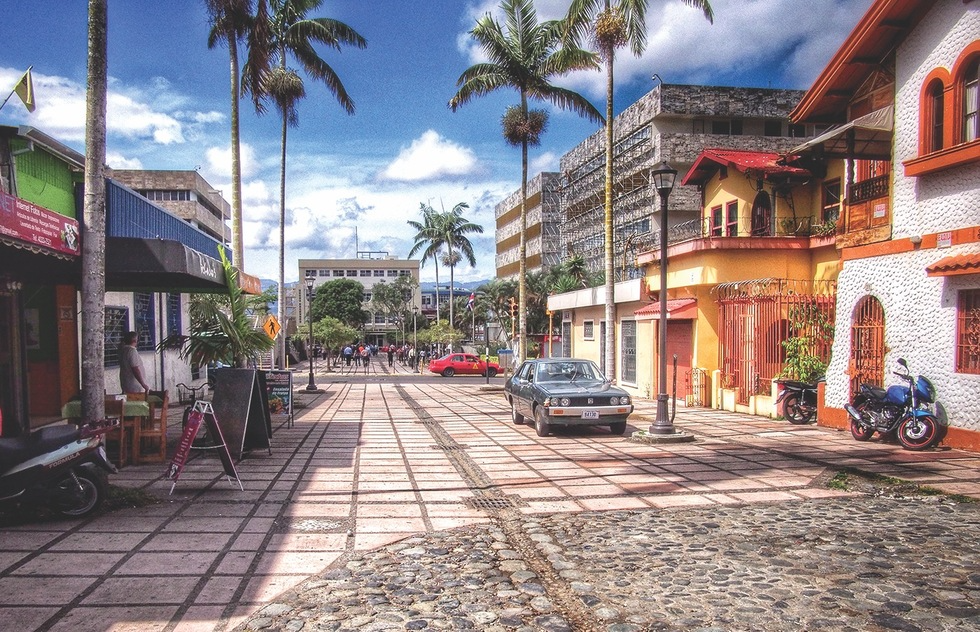
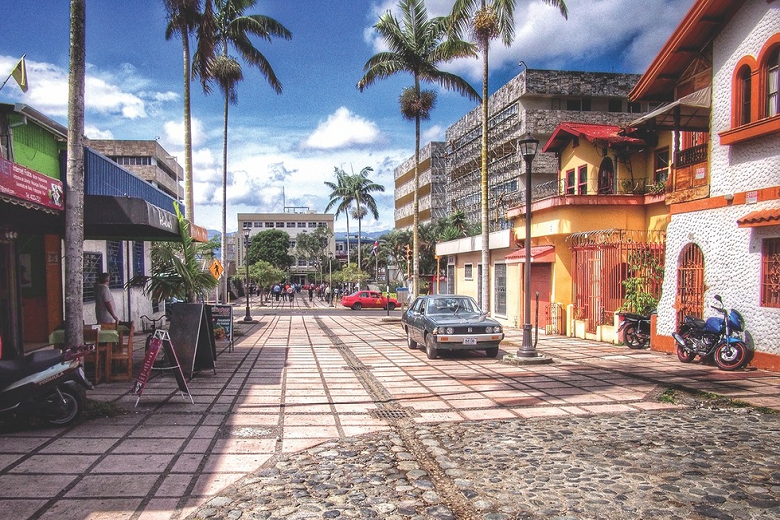
componente detalhes finalizado - imagens redimensionadas - mais informacoes adicionadas

Changed region(s): [[0.5846, 0.0, 0.6154, 0.0615], [0.6154, 0.2154, 0.6462, 0.2462], [0.4923, 0.0615, 0.5231, 0.0923]]

diff --git a/src/app/pais.service.ts b/src/app/pais.service.ts
@@ -18,6 +18,9 @@ export class PaisService {
       fotocard: `${this.baseUrl}/card/lisboa.png`,
       cidade: 'Lisboa',
       custodevida: 'R$5.400 - R$9.900',
+      temperatura: 'Clima temperado com média anual de 17°C',
+      lingua: 'Português',
+      internet: '50 Mbps',
       descricao:
         'Portugal é um destino inspirador. Com sua rica história, cidades pitorescas e belas paisagens, o país oferece um ambiente inspirador para trabalhar e explorar. Lisboa, a capital, combina tradição e modernidade, com bairros históricos, como Alfama, e uma cena tecnológica em crescimento no Parque das Nações. O Porto, conhecido por suas vinícolas e charme urbano, também atrai nômades digitais em busca de uma atmosfera acolhedora.',
     },
@@ -31,8 +34,11 @@ export class PaisService {
       fotocard: `${this.baseUrl}/card/bangkok.png`,
       cidade: 'Bangkok',
       custodevida: 'R$3.000 - R$7.000',
+      temperatura: 'Clima tropical com média anual de 28°C',
+      lingua: 'Tailandês',
+      internet: '25 Mbps',
       descricao:
-        'A Tailândia é um paraíso exótico e vibrante, oferecendo uma fusão única entre praias deslumbrantes, selvas exuberantes e cidades movimentadas. Com uma combinação de infraestrutura moderna e cultura tradicional, é um local atraente para trabalhar remotamente. Bangkok, a capital, é um hub dinâmico com uma cena de coworking em crescimento, enquanto destinos como Chiang Mai e as ilhas tailandesas proporcionam uma mistura perfeita de beleza natural, gastronomia deliciosa e opções de lazer, tornando a Tailândia um refúgio inspirador para nômades digitais em busca de diversidade e aventura.',
+        'A Tailândia é um paraíso exótico e vibrante, oferecendo uma fusão única entre praias deslumbrantes, selvas exuberantes e cidades movimentadas. Com uma combinação de infraestrutura moderna e cultura tradicional, é um local atraente para trabalhar remotamente. Bangkok, a capital, é um hub dinâmico com uma cena de coworking em crescimento, enquanto destinos como Chiang Mai e as ilhas tailandesas proporcionam uma mistura perfeita de beleza natural, gastronomia deliciosa e opções de lazer.',
     },
     {
       id: 2,
@@ -44,8 +50,11 @@ export class PaisService {
       fotocard: `${this.baseUrl}/card/costa-rica.png`,
       cidade: 'San Jose',
       custodevida: 'R$4.500 - R$8.000',
+      temperatura: 'Clima tropical com média anual de 27°C',
+      lingua: 'Espanhol',
+      internet: '10 Mbps',
       descricao:
-        'A Costa Rica é um refúgio tropical fascinante para nômades digitais, oferecendo uma harmoniosa conexão entre natureza exuberante e comodidades modernas. Com suas praias deslumbrantes, florestas tropicais biodiversas e parques nacionais bem preservados, o país proporciona um ambiente inspirador para trabalhar remotamente. Além disso, as cidades como San José oferecem opções de coworking e infraestrutura digital, enquanto a cultura "pura vida" e a variedade de atividades ao ar livre, como surf, trilhas e observação de vida selvagem, enriquecem a experiência de um estilo de vida nômade na Costa Rica.',
+        'A Costa Rica é um refúgio tropical fascinante para nômades digitais, oferecendo uma harmoniosa conexão entre natureza exuberante e comodidades modernas. Com suas praias deslumbrantes, florestas tropicais biodiversas e parques nacionais bem preservados, o país proporciona um ambiente inspirador para trabalhar remotamente. Cidades como San José oferecem variedade de atividades ao ar livre, como surf, trilhas e observação de vida selvagem.',
     },
     {
       id: 3,
@@ -57,8 +66,11 @@ export class PaisService {
       fotocard: `${this.baseUrl}/card/playa-del-carmen.png`,
       cidade: 'Playa del Carmen',
       custodevida: 'R$3.600 - R$6.500',
+      temperatura: 'Clima tropical com média anual de 27°C',
+      lingua: 'Espanhol',
+      internet: '20 Mbps',
       descricao:
-        'O México é um destino vibrante e diversificado para nômades digitais, oferecendo uma fusão rica entre cultura, história e paisagens deslumbrantes. Cidades como Cidade do México e Playa del Carmen oferecem uma mistura emocionante de vida urbana e praias cativantes, com uma crescente cena de coworking e infraestrutura digital. A gastronomia mexicana é renomada, proporcionando uma experiência culinária única. As ruínas antigas, como as de Chichen Itza, e as belas praias da Riviera Maya adicionam um toque de aventura e exploração à vida de nômade digital no México, tornando-o um destino atraente para aqueles que buscam uma mistura equilibrada entre trabalho e lazer.',
+        'O México é um destino vibrante e diversificado para nômades digitais, oferecendo uma fusão rica entre cultura, história e paisagens deslumbrantes. Cidades como Cidade do México e Playa del Carmen oferecem uma mistura emocionante de vida urbana e praias cativantes. A gastronomia mexicana é renomada, proporcionando uma experiência culinária única. As ruínas antigas, como as de Chichen Itza, e as belas praias da Riviera Maya adicionam um toque de aventura e exploração à vida de nômade digital no México.',
     },
     {
       id: 4,
@@ -70,8 +82,11 @@ export class PaisService {
       fotocard: `${this.baseUrl}/card/kuala-lumpur.png`,
       cidade: 'Kuala Lumpur',
       custodevida: 'R$3.000 - R$5.500',
+      temperatura: 'Clima equatorial com média anual de 27°C',
+      lingua: 'Malaio',
+      internet: '20 Mbps',
       descricao:
-        'A Malásia é um destino intrigante, combinando uma mistura fascinante de culturas, paisagens variadas e uma infraestrutura moderna. Kuala Lumpur, a capital, oferece uma atmosfera cosmopolita com arranha-céus impressionantes e uma cena de coworking em crescimento. Além disso, cidades como Penang e Langkawi proporcionam um ambiente mais descontraído, com belas praias e uma vibração cultural única. A rica culinária malasiana é uma atração por si só, refletindo a diversidade étnica do país. Com uma combinação de custo de vida acessível e experiências culturais enriquecedoras, a Malásia oferece um equilíbrio atraente entre trabalho e lazer para nômades digitais em busca de novas experiências.',
+        'A Malásia é um destino intrigante, combinando uma mistura fascinante de culturas, paisagens variadas e uma infraestrutura moderna. Kuala Lumpur, a capital, oferece uma atmosfera cosmopolita com arranha-céus impressionantes e uma cena de coworking em crescimento. Além disso, cidades como Penang e Langkawi proporcionam um ambiente mais descontraído, com belas praias e uma vibração cultural única. A rica culinária malasiana é uma atração por si só, refletindo a diversidade étnica do país.',
     },
     {
       id: 5,
@@ -83,8 +98,11 @@ export class PaisService {
       fotocard: `${this.baseUrl}/card/tallinn.png`,
       cidade: 'Tallinn',
       custodevida: 'R$4.500 - R$7.500',
+      temperatura: 'Clima temperado com média anual de 7°C',
+      lingua: 'Estoniano',
+      internet: '70 Mbps',
       descricao:
-        'A Estônia é um destino encantador, com uma mistura única de inovação digital e beleza natural. A capital, Tallinn, oferece uma combinação de história medieval e infraestrutura moderna, incluindo zonas de internet sem fio gratuito em toda a cidade. O programa de cidadania eletrônica da Estônia permite aos nômades digitais estabelecer uma presença legal e acessar serviços online de forma conveniente. Além disso, a cena de coworking está em crescimento, proporcionando oportunidades de networking. A beleza das paisagens costeiras, florestas exuberantes e ilhas pitorescas complementa a experiência, tornando a Estônia um destino atraente para aqueles que buscam uma mistura de inovação, cultura e natureza.',
+        'A Estônia é um destino encantador, com uma mistura única de inovação digital e beleza natural. A capital, Tallinn, oferece uma combinação de história medieval e infraestrutura moderna, incluindo zonas de Wi-Fi gratuito em toda a cidade. O programa de cidadania eletrônica da Estônia permite aos nômades digitais estabelecer uma presença legal e acessar serviços online de forma conveniente.',
     },
     {
       id: 6,
@@ -96,8 +114,11 @@ export class PaisService {
       fotocard: `${this.baseUrl}/card/dublin.png`,
       cidade: 'Dublin',
       custodevida: 'R$9.900 - R$13.500',
+      temperatura: 'Clima temperado oceânico com média anual de 10°C',
+      lingua: 'Inglês',
+      internet: '75 Mbps',
       descricao:
-        'A Irlanda é um destino cativante para nômades digitais, oferecendo uma combinação única de charme histórico, paisagens deslumbrantes e uma atmosfera acolhedora. Cidades como Dublin, com sua cena tecnológica em crescimento, proporcionam uma infraestrutura moderna para trabalhar remotamente. Além disso, as paisagens irlandesas, que variam de falésias dramáticas a campos verdes exuberantes, oferecem oportunidades para explorar a natureza durante o tempo livre. A cultura rica, a música tradicional e os pubs animados acrescentam um toque especial à experiência de nômade digital na Irlanda, proporcionando um equilíbrio atraente entre trabalho e lazer.',
+        'A Irlanda é um destino cativante para nômades digitais, oferecendo uma combinação única de charme histórico, paisagens deslumbrantes e uma atmosfera acolhedora. Cidades como Dublin, com sua cena tecnológica em crescimento, proporcionam uma infraestrutura moderna para trabalhar remotamente. A cultura rica, a música tradicional e os pubs animados acrescentam um toque especial à experiência de nômade digital na Irlanda, proporcionando um equilíbrio atraente entre trabalho e lazer.',
     },
     {
       id: 7,
@@ -109,8 +130,11 @@ export class PaisService {
       fotocard: `${this.baseUrl}/card/buenos-aires.png`,
       cidade: 'Buenos Aires',
       custodevida: 'R$2.700 - R$5.000',
+      temperatura: 'Clima subtropical com média anual de 18°C',
+      lingua: 'Espanhol',
+      internet: '25 Mbps',
       descricao:
-        'A Argentina é um destino apaixonante para nômades digitais, com uma mistura envolvente de cultura, história e vastidão geográfica. Buenos Aires, a capital, oferece uma atmosfera artística e animada, além de uma crescente cena de coworking e tecnologia. A rica cultura argentina é refletida na dança do tango, na culinária famosa por seus bifes e na paixão pelo futebol. Além disso, as vastas paisagens que vão desde as montanhas da Patagônia até as vinícolas de Mendoza oferecem oportunidades emocionantes para explorar a natureza e a aventura. Com uma abordagem descontraída da vida, a Argentina oferece aos nômades digitais uma experiência única, equilibrando trabalho, cultura e lazer de maneira harmoniosa.',
+        'A Argentina é um destino apaixonante para nômades digitais, com uma mistura envolvente de cultura, história e vastidão geográfica. Buenos Aires, a capital, oferece uma atmosfera artística e animada, além de uma crescente cena de coworking e tecnologia. A rica cultura argentina é refletida na dança do tango, na culinária famosa por seus bifes e na paixão pelo futebol.',
     },
     {
       id: 8,
@@ -122,8 +146,11 @@ export class PaisService {
       fotocard: `${this.baseUrl}/card/ho-chi-minh.png`,
       cidade: 'Ho Chi Minh',
       custodevida: 'R$2.500 - R$4.500',
+      temperatura: 'Clima tropical com média anual de 28°C',
+      lingua: 'Vietnamita',
+      internet: '25 Mbps',
       descricao:
-        'O Vietnã é um país exótico que oferece uma fusão intrigante de história rica, culinária deliciosa e paisagens diversas. Ho Chi Minh, a maior cidade do país, possui uma mistura de cultura tradicional e modernidade, com uma cena crescente de coworking. As belezas naturais do Vietnã vão desde as praias deslumbrantes de Da Nang até as montanhas de Sapa. A comida vietnamita é renomada internacionalmente, oferecendo uma experiência gastronômica única. Com custos de vida acessíveis e um ambiente vibrante, o Vietnã atrai nômades digitais em busca de uma combinação única de trabalho e aventura.',
+        'O Vietnã é um país exótico que oferece uma fusão intrigante de história rica, culinária deliciosa e paisagens diversas. Ho Chi Minh, a maior cidade do país, possui uma mistura de cultura tradicional e modernidade, com uma cena crescente de coworking. As belezas naturais do Vietnã vão desde as praias deslumbrantes de Da Nang até as montanhas de Sapa. A comida vietnamita é renomada internacionalmente, oferecendo uma experiência gastronômica única.',
     },
     {
       id: 9,
@@ -135,8 +162,11 @@ export class PaisService {
       fotocard: `${this.baseUrl}/card/barcelona.png`,
       cidade: 'Barcelona',
       custodevida: 'R$7.200 - R$10.500',
+      temperatura: 'Clima mediterrâneo com média anual de 17°C',
+      lingua: 'Espanhol',
+      internet: '50 Mbps',
       descricao:
-        'A Espanha é um país cativante, conhecido por sua cultura vibrante, praias deslumbrantes e cidades históricas. Barcelona, uma das cidades mais famosas da Espanha, oferece uma mistura única de arquitetura modernista e estilo de vida descontraído. Com uma cena de coworking em crescimento e uma rica herança cultural, a cidade proporciona um ambiente inspirador para nômades digitais. Além disso, a Espanha oferece uma culinária diversificada, festivais animados e paisagens variadas, desde as montanhas dos Pirineus até as ilhas ensolaradas das Canárias.',
+        'A Espanha é um país cativante, conhecido por sua cultura vibrante, praias deslumbrantes e cidades históricas. Barcelona, uma das cidades mais famosas da Espanha, oferece uma mistura única de arquitetura modernista e estilo de vida descontraído. Com uma cena de coworking em crescimento e uma rica herança cultural, a cidade proporciona um ambiente inspirador para nômades digitais.',
     },
     {
       id: 10,
@@ -148,6 +178,9 @@ export class PaisService {
       fotocard: `${this.baseUrl}/card/bali.png`,
       cidade: 'Bali',
       custodevida: 'R$2.800 - R$5.500',
+      temperatura: 'Clima tropical com média anual de 26°C',
+      lingua: 'Indonésio',
+      internet: '20 Mbps',
       descricao:
         'A Indonésia é um paraíso tropical atraente para nômades digitais em busca de beleza natural e espiritualidade. Bali, conhecida por suas praias exuberantes e atmosfera relaxante, é um destino popular entre os nômades digitais. Com uma cena de coworking vibrante e retiros espirituais, Bali oferece um ambiente propício para trabalho e relaxamento. Além disso, a rica cultura balinesa, as atividades ao ar livre, como surfe e yoga, e os templos majestosos acrescentam uma dimensão única à experiência de nômade digital.',
     },
@@ -161,8 +194,11 @@ export class PaisService {
       fotocard: `${this.baseUrl}/card/vancouver.png`,
       cidade: 'Vancouver',
       custodevida: 'R$8.000 - R$13.000',
+      temperatura: 'Clima temperado oceânico com média anual de 10°C',
+      lingua: 'Inglês e Francês',
+      internet: '100 Mbps',
       descricao:
-        'O Canadá oferece um ambiente acolhedor para nômades digitais que desejam explorar vastas paisagens e cidades modernas. Vancouver, situada entre o oceano e as montanhas, é uma cidade cosmopolita com uma cena de tecnologia em crescimento. A beleza natural da região, incluindo o Parque Stanley, oferece oportunidades para atividades ao ar livre. Além disso, o Canadá é conhecido por sua qualidade de vida, educação de qualidade e diversidade cultural, tornando-o um destino atraente para nômades digitais em busca de uma experiência equilibrada.',
+        'O Canadá oferece um ambiente acolhedor para nômades digitais que desejam explorar vastas paisagens e cidades modernas. Vancouver, situada entre o oceano e as montanhas, é uma cidade cosmopolita com uma cena de tecnologia em crescimento. A beleza natural da região oferece oportunidades para atividades ao ar livre. Além disso, o Canadá é conhecido por sua qualidade de vida, educação de qualidade e diversidade cultural.',
     },
     {
       id: 12,
@@ -174,6 +210,9 @@ export class PaisService {
       fotocard: `${this.baseUrl}/card/atenas.png`,
       cidade: 'Atenas',
       custodevida: 'R$5.600 - R$9.800',
+      temperatura: 'Clima mediterrâneo com média anual de 18°C',
+      lingua: 'Grego',
+      internet: '35 Mbps',
       descricao:
         'A Grécia oferece uma mistura encantadora de história antiga, praias deslumbrantes e uma atmosfera relaxada. Atenas, a capital, é uma cidade rica em cultura e história, com sítios arqueológicos icônicos, como a Acrópole. Com uma cena emergente de tecnologia e espaços de coworking, a Grécia oferece oportunidades para nômades digitais. As ilhas gregas, com suas águas cristalinas e charme pitoresco, proporcionam um refúgio tranquilo para relaxamento e inspiração.',
     },
@@ -187,6 +226,9 @@ export class PaisService {
       fotocard: `${this.baseUrl}/card/sydney.png`,
       cidade: 'Sydney',
       custodevida: 'R$10.000 - R$16.000',
+      temperatura: 'Clima variado, com média anual de 20°C',
+      lingua: 'Inglês',
+      internet: '50 Mbps',
       descricao:
         'A Austrália oferece uma combinação única de vida urbana moderna e belezas naturais impressionantes. Sydney, com seu famoso porto e estilo de vida descontraído, é uma cidade atraente para nômades digitais. Com uma economia forte e uma cena de tecnologia em crescimento, a Austrália oferece oportunidades de trabalho e exploração. Além disso, as vastas paisagens, como a Grande Barreira de Coral e as montanhas azuis, proporcionam aventuras emocionantes para quem procura um equilíbrio entre trabalho e lazer.',
     },
@@ -200,6 +242,9 @@ export class PaisService {
       fotocard: `${this.baseUrl}/card/toquio.png`,
       cidade: 'Tóquio',
       custodevida: 'R$9.500 - R$15.000',
+      temperatura: 'Clima temperado com média anual de 15°C',
+      lingua: 'Japonês',
+      internet: '100 Mbps',
       descricao:
         'O Japão oferece uma experiência única de modernidade e tradição, tornando-o um destino intrigante para nômades digitais. Tóquio, a capital, é uma metrópole futurista, conhecida por sua tecnologia de ponta e cultura pop. A cidade oferece uma cena de coworking em crescimento e oportunidades de exploração cultural. Além disso, as cidades históricas, como Quioto, e as belas paisagens naturais, como o Monte Fuji, enriquecem a experiência de viver no Japão.',
     },
@@ -213,6 +258,9 @@ export class PaisService {
       fotocard: `${this.baseUrl}/card/medellin.png`,
       cidade: 'Medellín',
       custodevida: 'R$3.000 - R$6.000',
+      temperatura: 'Clima tropical com média anual de 24°C',
+      lingua: 'Espanhol',
+      internet: '20 Mbps',
       descricao:
         'A Colômbia é um país fascinante com uma mistura única de cidades modernas e paisagens diversas. Medellín, conhecida por sua transformação urbana e clima agradável, é uma cidade popular entre nômades digitais. Com uma cena de tecnologia em ascensão e uma vibração cultural vibrante, a Colômbia oferece um ambiente inspirador para trabalhar e explorar. Além disso, as belezas naturais, como a região do café e as praias caribenhas, proporcionam uma ampla gama de experiências.',
     },

diff --git a/src/app/detalhes/detalhes.component.html b/src/app/detalhes/detalhes.component.html
@@ -1,12 +1,37 @@
-<article class="flex">
-    <a [routerLink]="['/']"><img class="arrow" src="/assets/go-back-arrow.svg" alt="Voltar"></a>
+<article class="container">
+    <a class="arrow" [routerLink]="['/']"><img class="arrow" src="/assets/go-back-arrow.svg" alt="Voltar"></a>
     <section>
-        <h2>{{ Pais?.pais }}</h2>
-        <p>{{ Pais?.cidade }}, {{ Pais?.regiao }}</p>
-    </section>
-    <section>
-        <h2>Sobre</h2>
-        <p>{{ Pais?.descricao }}</p>
+        <div>
+            <h2 class="pais">{{ Pais?.pais }}</h2>
+            <p class="regiao">{{ Pais?.regiao }}</p>
+            <p class="descricao">{{ Pais?.descricao }}</p>
+        </div>
+        <div class="info-container">
+            <div class="info">
+                <h3 class="info-header">Tempo de Visa</h3>
+                <p class="info-detalhes">{{ Pais?.tempovisa }}</p>
+            </div>
+            <div class="info">
+                <h3 class="info-header">Clima</h3>
+                <p class="info-detalhes">{{ Pais?.temperatura }}</p>
+            </div>
+            <div class="info">
+                <h3 class="info-header">Wi-Fi</h3>
+                <p class="info-detalhes">{{ Pais?.internet }}</p>
+            </div>
+            <div class="info">
+                <h3 class="info-header">Cidade Recomendada</h3>
+                <p class="info-detalhes">{{ Pais?.cidade }}</p>
+            </div>
+            <div class="info">
+                <h3 class="info-header">Custo de Vida</h3>
+                <p class="info-detalhes">{{ Pais?.custodevida }}</p>
+            </div>
+            <div class="info">
+                <h3 class="info-header">Idioma</h3>
+                <p class="info-detalhes">{{ Pais?.lingua }}</p>
+            </div>
+        </div>
     </section>
     <img class="foto" [src]="Pais?.fotofull" alt="{{ Pais?.pais }}" />
 </article>

diff --git a/src/app/detalhes/detalhes.component.css b/src/app/detalhes/detalhes.component.css
@@ -1,13 +1,72 @@
 .flex {
   display: flex;
 }
+
 .foto {
-  height: 650px;
-  width: 100%;
-  border-radius: 10px 10px 0 0;
+  border-radius: 8px;
+  display: block;
+  margin: auto;
 }
 
 .arrow {
   width: 50px;
   height: 50px;
+}
+
+.container {
+  display: flex;
+  flex-direction: row;
+  max-width: 1550px;
+  min-height: 775px;
+  width: 100%;
+  padding: 50px 25px;
+  margin: auto;
+  gap: 35px;
+}
+
+.pais {
+  font-size: 35px;
+  margin-bottom: 2.5px;
+}
+
+.regiao {
+  color: rgb(118, 124, 134);
+  margin-bottom: 13px;
+  font-size: 18px;
+}
+
+.descricao {
+  color: #34323b;
+  margin-top: 20px;
+  margin-bottom: 4px;
+  font-size: 16px;
+  line-height: 25px;
+  letter-spacing: 0.2px;
+}
+
+.info-container {
+  margin-top: 60px;
+  display: grid;
+  column-gap: 2rem;
+  row-gap: 2.5rem;
+  grid-template-columns: repeat(2, minmax(0, 1fr));
+}
+
+.info {
+  padding-top: 12px;
+  border-color: rgb(229 231 235);
+  border-width: 0;
+  border-top-width: 1px;
+  border-style: solid;
+}
+
+.info-header {
+  color: #34323b;
+}
+
+.info-detalhes {
+  color: rgb(90, 95, 104);
+  font-size: 0.95rem;
+  line-height: 1.25rem;
+  margin-top: 0.5rem;
 }

diff --git a/src/app/Pais.ts b/src/app/Pais.ts
@@ -8,5 +8,8 @@ export interface Pais {
   fotocard: string;
   cidade: string;
   custodevida: string;
+  temperatura: string;
+  lingua: string;
+  internet: string;
   descricao: string;
 }

diff --git a/src/app/hero/hero.component.ts b/src/app/hero/hero.component.ts
@@ -15,7 +15,7 @@ export class HeroComponent {
   }
 
   searchFieldInteracted() {
-    this.scrollDown(300);
+    this.scrollDown(190);
   }
 
   private scrollDown(offset: number) {
